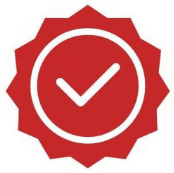
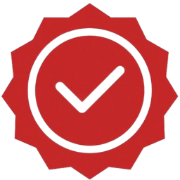
newStylesUpdate

diff --git a/Front-End/src/components/Header.css b/Front-End/src/components/Header.css
@@ -28,14 +28,19 @@ nav a:hover {
 .logo-container {
   display: flex;
   align-items: center;
-  margin-left: 1rem;
+  margin-left: 1.1rem;
 }
 
 .logo {
   width: auto;
-  height: 70px;
+  height: 75px;
   background-size: cover;
   margin-right: 0.5rem;
+}
+.logo:hover {
+  transform: scale(1.1);
+  transition: transform 0.5s;
+  cursor: pointer;
 }
 .logo-text {
   font-size: 0.9rem;

diff --git a/Front-End/src/components/Header.jsx b/Front-End/src/components/Header.jsx
@@ -1,6 +1,6 @@
-import React, { useState } from "react";
+import { useState } from "react";
 import "./Header.css";
-import logo from "../assets/Logo.jpg";
+import logo from "../assets/logo2.png";
 
 function Header() {
   const [isMenuOpen, setIsMenuOpen] = useState(false);
